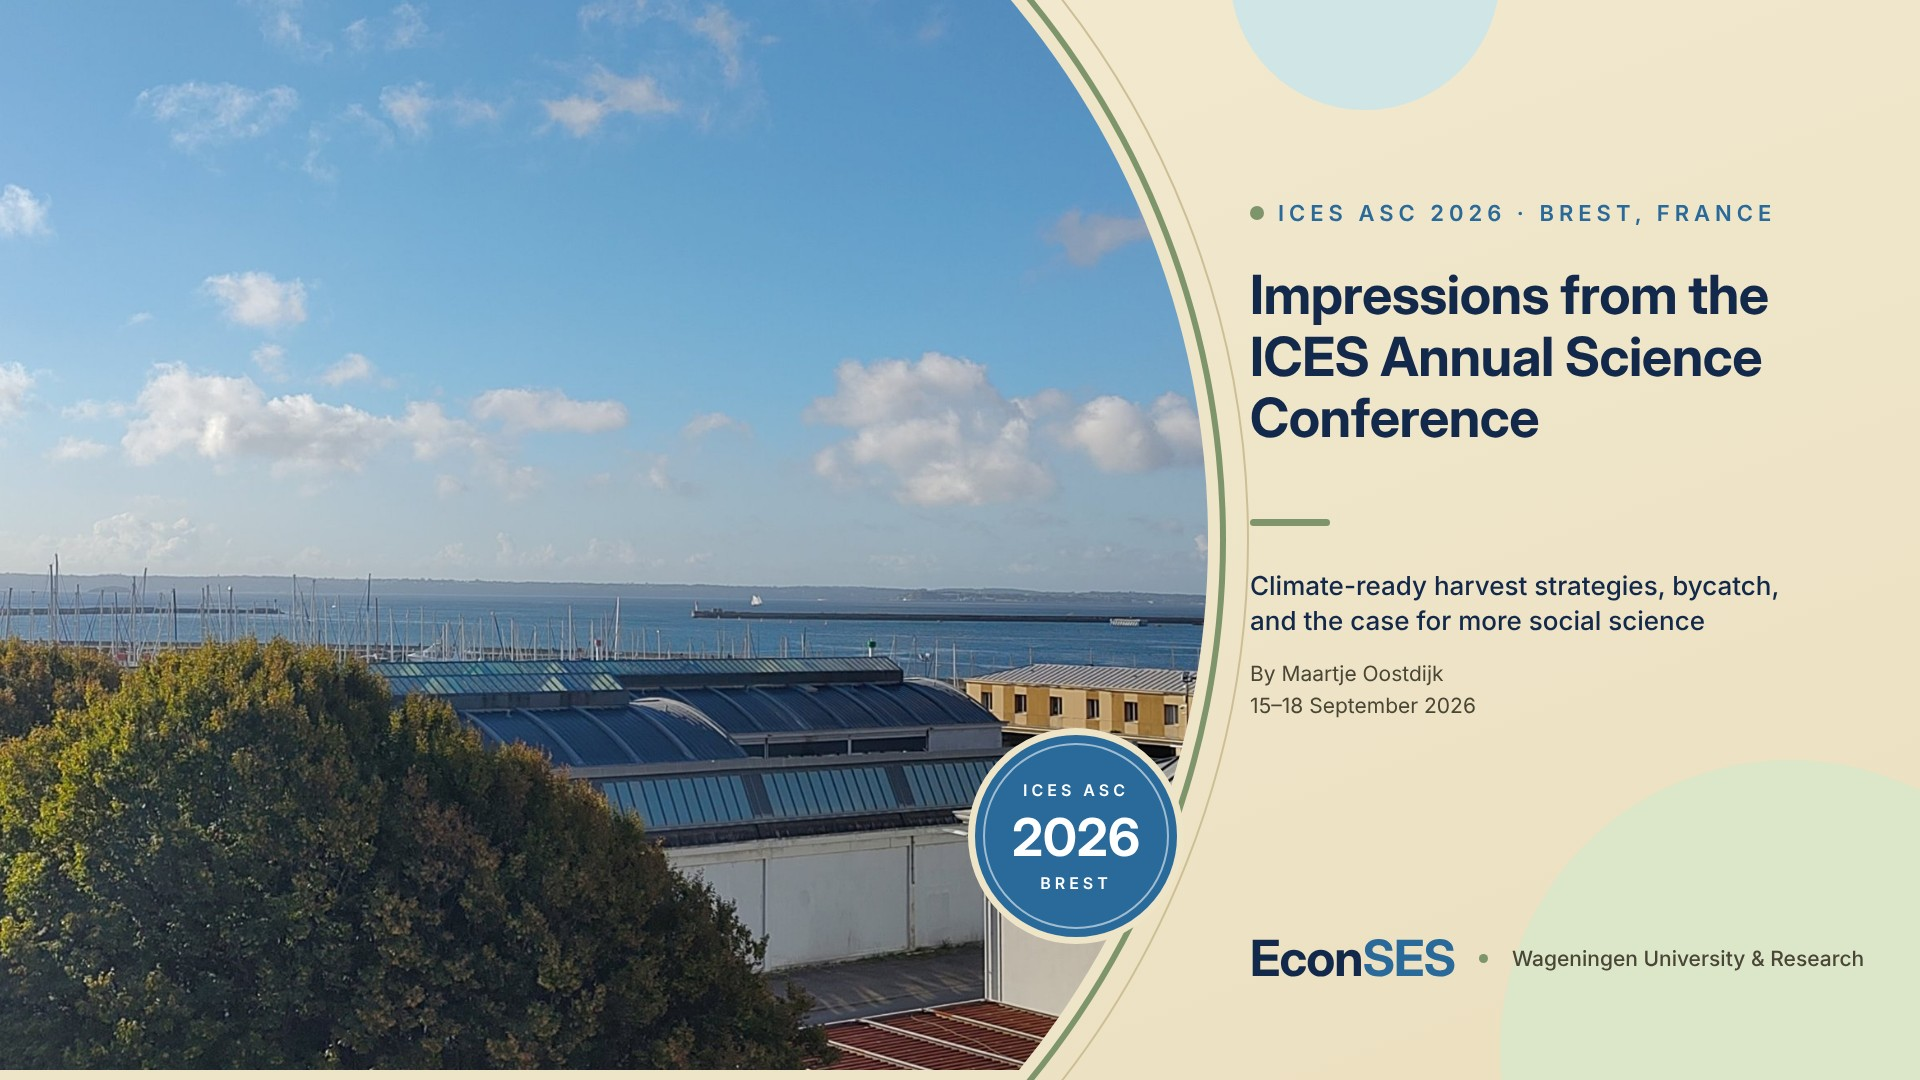
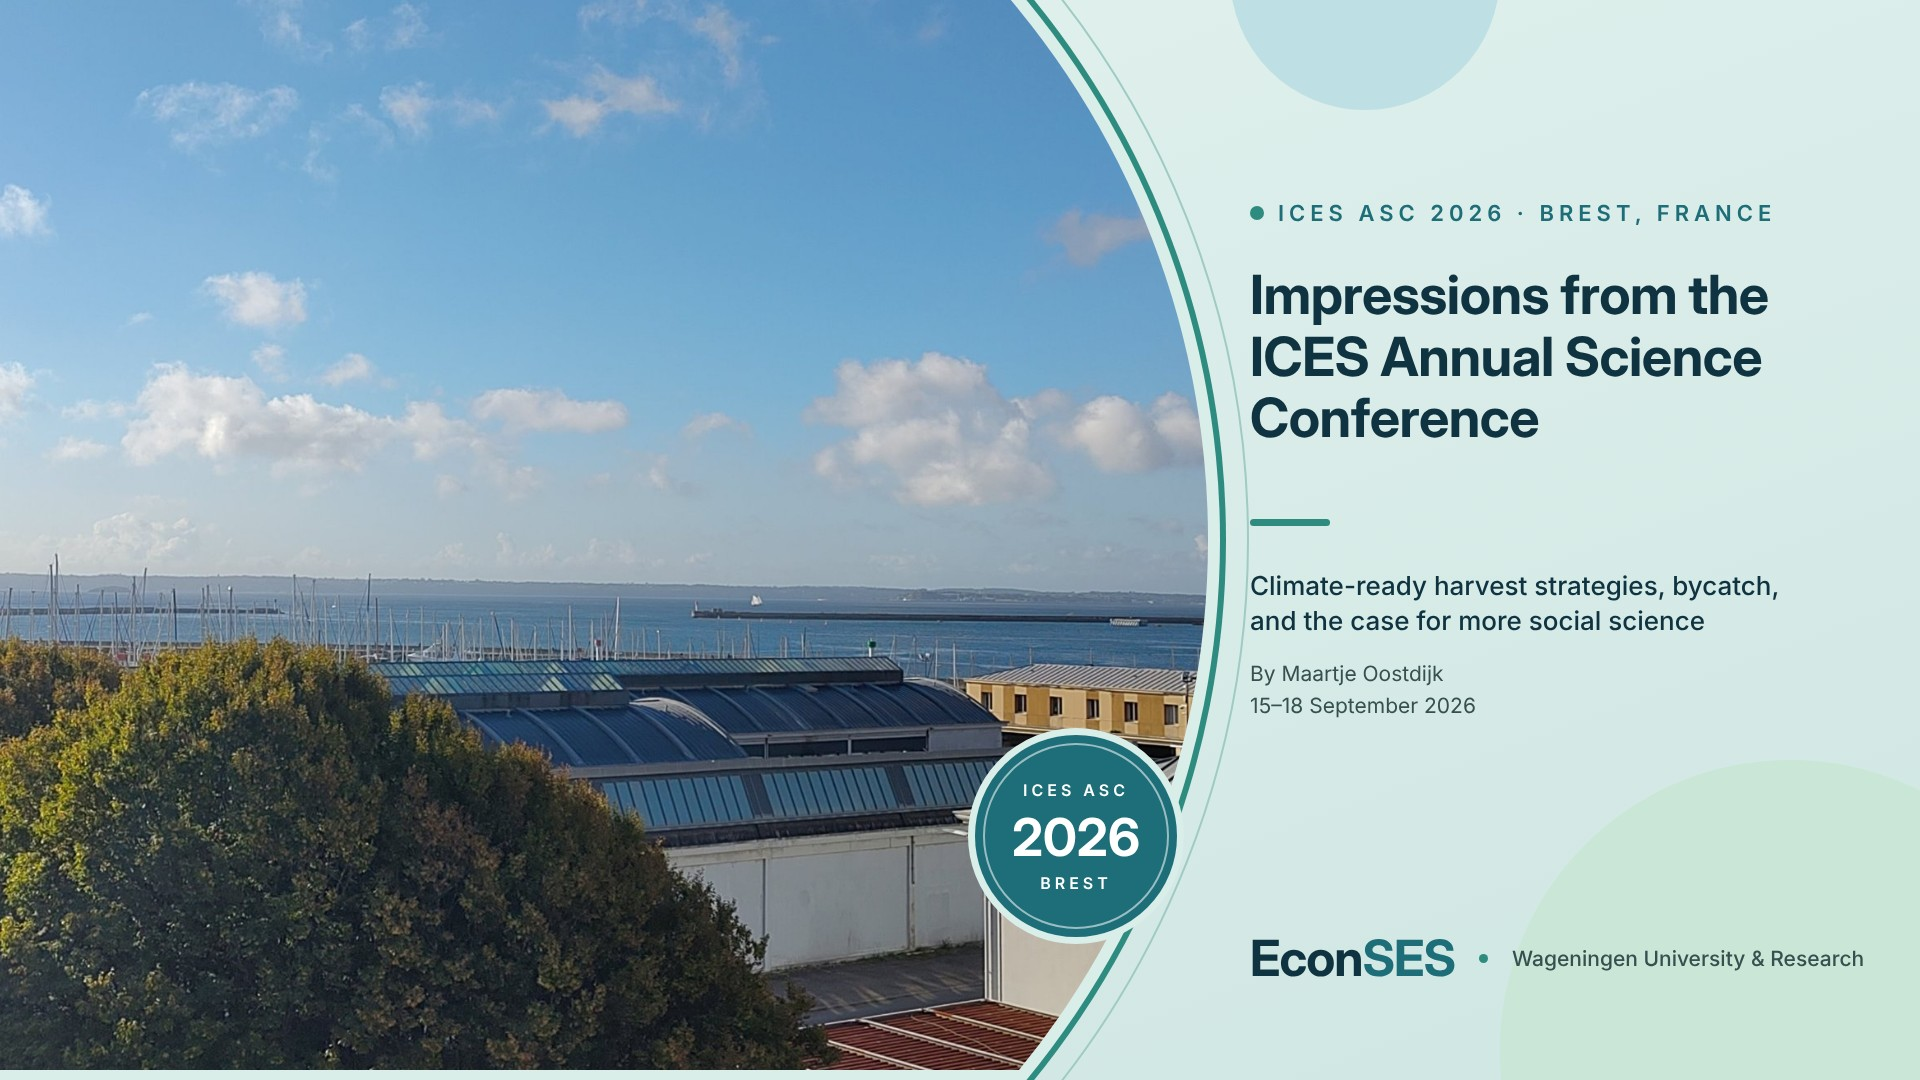
maartje

diff --git a/layouts/shortcodes/pullquote.html b/layouts/shortcodes/pullquote.html
@@ -1,0 +1,8 @@
+{{/* Pull quote for news posts.
+     Usage: {{< pullquote author="Maartje Oostdijk" >}}Quote text{{< /pullquote >}} */}}
+<figure class="econses-pullquote" style="margin: 2.5rem 0; padding: 0.4rem 0 0.4rem 1.6rem; border-left: 5px solid #2E8B7F;">
+  <blockquote style="margin: 0; border: 0; padding: 0; font-size: 1.45rem; line-height: 1.45; font-weight: 600; color: #1D6E78;">
+    “{{ .Inner | markdownify }}”
+  </blockquote>
+  {{ with .Get "author" }}<figcaption style="margin-top: 0.6rem; font-size: 0.95rem; letter-spacing: 0.08em; text-transform: uppercase; color: #5a6b6a;">— {{ . }}</figcaption>{{ end }}
+</figure>

diff --git a/content/post/20261103-ices-asc-2026-brest/index.md b/content/post/20261103-ices-asc-2026-brest/index.md
@@ -1,7 +1,7 @@
 ---
 title: 'Impressions from the ICES Annual Science Conference 2026 in Brest'
 subtitle: ''
-summary: 'Maartje Oostdijk reports from the ICES Annual Science Conference in Brest: climate-ready harvest strategies, bycatch, and a call for more social and economic research.'
+summary: 'EconSES postdoctoral researcher Dr. Maartje Oostdijk shares her impressions from the ICES Annual Science Conference in Brest: climate-ready harvest strategies, bycatch, and a call for more social and economic research.'
 authors:
   - Maartje Oostdijk
 tags:
@@ -19,19 +19,32 @@ image:
   preview_only: false
 ---
 
-The Annual Science Conference (ASC) of the International Council for the Exploration of the Sea (ICES) took place on 15–18 September in Brest, France. I joined as a member of the EconSES lab to present work on climate-ready fisheries harvest strategies and on the impacts of trade agreements on seafood trade and production.
+From 15 to 18 September 2026, marine researchers from across the North Atlantic gathered in Brest, France, for the Annual Science Conference (ASC) of the International Council for the Exploration of the Sea (ICES). EconSES postdoctoral researcher [Dr. Maartje Oostdijk](/author/maartje-oostdijk/) attended on behalf of the lab, presenting work on climate-ready fisheries harvest strategies and on how trade agreements affect seafood trade and production.
 
-ICES is an intergovernmental marine science organization that provides scientific evidence and advice to support the sustainable management of marine ecosystems and fisheries in the North Atlantic and adjacent seas. Stock assessment is a central part of the work of ICES, and the conference follows an often intense week of meetings for scientists working on stock assessments. The ASC, however, reaches beyond stock assessment and is an important gathering for researchers studying marine social-ecological systems.
+ICES is an intergovernmental marine science organization that provides scientific evidence and advice to support the sustainable management of marine ecosystems and fisheries in the North Atlantic and adjacent seas. Stock assessment is a central part of its work, and the conference follows an often intense week of meetings for scientists working on stock assessments. The ASC, however, reaches beyond stock assessment and is an important gathering for researchers studying marine social-ecological systems.
 
-The need for social and economic data and analysis was stressed prominently in the plenary sessions, although the theme sessions largely focused on ecological questions (apart from a theme session on participatory modeling). I was also surprised by how few sessions focused directly on stock assessment, given its central role within ICES.
+### A call for social and economic research
 
-The eight-minute presentation format offers a broad overview of ongoing research, though the pace can be overwhelming. With speakers fitting so much information into such short slots, there is little time to absorb one presentation before the next begins. Despite the short time slots, it was obvious that both the research and the presentations were of very high quality. Fortunately, generous lunch breaks provided time to catch up with colleagues and give the brain a little rest from the intense theme sessions.
+The need for social and economic data and analysis was stressed prominently in the plenary sessions. The theme sessions, however, largely focused on ecological questions, with a theme session on participatory modeling as the main exception. Maartje also noticed what was missing from the program.
+
+{{< pullquote author="Maartje Oostdijk" >}}I was surprised by how few sessions focused directly on stock assessment, given its central role within ICES.{{< /pullquote >}}
+
+### Eight minutes per talk
+
+The ASC uses an eight-minute presentation format, which offers a broad overview of ongoing research, though the pace can be overwhelming. "With speakers fitting so much information into such short slots, there is little time to absorb one presentation before the next begins," Maartje says. "Despite the short time slots, it was obvious that both the research and the presentations were of very high quality."
+
+Fortunately, generous lunch breaks provided time to catch up with colleagues and, in Maartje's words, to "give the brain a little rest from the intense theme sessions."
 
 ![Exciting social science research at the ICES ASC](ices-presentation.jpg)
 
+### Highlights: climate models and bycatch
 
-One of my highlights of the conference was the theme session "Climate models to advice", which hosted impressive ecosystem modeling research on incorporating climate change and uncertainty in stock assessments into (ecosystem-based) modeling and fisheries advice.
+{{< pullquote author="Maartje Oostdijk" >}}One of my highlights of the conference was the theme session ‘Climate models to advice’.{{< /pullquote >}}
 
-The sessions on bycatch reduction were also interesting. They gave insights into technical innovations and management approaches, but also into the clash between ideals of ecosystem protection and utilization. For instance, it proves challenging to decide together with fishers which areas are best closed to reduce bycatch, as closing these areas can also carry high opportunity costs for fishery participants.
+The session hosted impressive ecosystem modeling research on incorporating climate change and uncertainty in stock assessments into (ecosystem-based) modeling and fisheries advice.
 
-I'm looking forward to next year's meeting in Copenhagen!
+Maartje also found the sessions on bycatch reduction interesting. They gave insights into technical innovations and management approaches, but also into the clash between ideals of ecosystem protection and utilization. "For instance, it proves challenging to decide together with fishers which areas are best closed to reduce bycatch," she explains, "as closing these areas can also carry high opportunity costs for fishery participants."
+
+### Next stop: Copenhagen
+
+Next year's ASC will take place in Copenhagen, and Maartje is already looking ahead: "I'm looking forward to next year's meeting in Copenhagen!"

diff --git a/content/post/20261103-ices-asc-2026-brest/index_old.md b/content/post/20261103-ices-asc-2026-brest/index_old.md
@@ -1,0 +1,37 @@
+---
+title: 'Impressions from the ICES Annual Science Conference 2026 in Brest'
+subtitle: ''
+summary: 'Maartje Oostdijk reports from the ICES Annual Science Conference in Brest: climate-ready harvest strategies, bycatch, and a call for more social and economic research.'
+authors:
+  - Maartje Oostdijk
+tags:
+  - Marine Systems
+  - Fisheries
+  - Conference
+#categories:
+#  - News
+date: '2026-11-03T00:00:00Z'
+featured: false
+draft: false
+image:
+  caption: 'View over the harbor of Brest during the ICES Annual Science Conference 2026.'
+  focal_point: Smart
+  preview_only: false
+---
+
+The Annual Science Conference (ASC) of the International Council for the Exploration of the Sea (ICES) took place on 15–18 September in Brest, France. I joined as a member of the EconSES lab to present work on climate-ready fisheries harvest strategies and on the impacts of trade agreements on seafood trade and production.
+
+ICES is an intergovernmental marine science organization that provides scientific evidence and advice to support the sustainable management of marine ecosystems and fisheries in the North Atlantic and adjacent seas. Stock assessment is a central part of the work of ICES, and the conference follows an often intense week of meetings for scientists working on stock assessments. The ASC, however, reaches beyond stock assessment and is an important gathering for researchers studying marine social-ecological systems.
+
+The need for social and economic data and analysis was stressed prominently in the plenary sessions, although the theme sessions largely focused on ecological questions (apart from a theme session on participatory modeling). I was also surprised by how few sessions focused directly on stock assessment, given its central role within ICES.
+
+The eight-minute presentation format offers a broad overview of ongoing research, though the pace can be overwhelming. With speakers fitting so much information into such short slots, there is little time to absorb one presentation before the next begins. Despite the short time slots, it was obvious that both the research and the presentations were of very high quality. Fortunately, generous lunch breaks provided time to catch up with colleagues and give the brain a little rest from the intense theme sessions.
+
+![Exciting social science research at the ICES ASC](ices-presentation.jpg)
+
+
+One of my highlights of the conference was the theme session "Climate models to advice", which hosted impressive ecosystem modeling research on incorporating climate change and uncertainty in stock assessments into (ecosystem-based) modeling and fisheries advice.
+
+The sessions on bycatch reduction were also interesting. They gave insights into technical innovations and management approaches, but also into the clash between ideals of ecosystem protection and utilization. For instance, it proves challenging to decide together with fishers which areas are best closed to reduce bycatch, as closing these areas can also carry high opportunity costs for fishery participants.
+
+I'm looking forward to next year's meeting in Copenhagen!

diff --git a/content/post/20261005-NSD/index.md b/content/post/20261005-NSD/index.md
@@ -1,6 +1,6 @@
 ---
 title: 'Navigating offshore energy, nature, and fisheries: trade-offs and transition scenarios'
-summary: 'At the North Sea Days, a session convened by Andries Richter, Else Weerman, and partners set out to make the trade-offs between offshore wind, nature, and fisheries explicit.'
+summary: 'At the North Sea Days, a session convened by Dr. Andries Richter, Else Weerman, and partners set out to make the trade-offs between offshore wind, nature, and fisheries explicit.'
 profile: 
   - andries-richter
   - else-weerman
@@ -15,7 +15,7 @@ image:
   focal_point: 'Center'
 ---
 
-As the North Sea gets more crowded, decisions about offshore wind, nature restoration, and fisheries are becoming more contested, often under deep uncertainty about climate change and a shifting geopolitical landscape. Too often the trade-offs stay implicit, which makes it hard to see who benefits, who bears the costs, and where thresholds may be crossed. At the North Sea Days, we convened a session to make these trade-offs explicit, together with partners from Wageningen Social and Economic Research, DMEC, Central Bureau of Statistics, Stichting De Noordzee, NIOZ, and Breda University of Applied Sciences, and drawing on the NO-REGRETS and DISPLACE projects.
+As the North Sea gets more crowded, decisions about offshore wind, nature restoration, and fisheries are becoming more contested, often under deep uncertainty about climate change and a shifting geopolitical landscape. Too often the trade-offs stay implicit, which makes it hard to see who benefits, who bears the costs, and where thresholds may be crossed. At the North Sea Days, EconSES convened a session to make these trade-offs explicit, together with partners from Wageningen Social and Economic Research, DMEC, Central Bureau of Statistics, Stichting De Noordzee, NIOZ, and Breda University of Applied Sciences, and drawing on the NO-REGRETS and DISPLACE projects.
 
 ![Wind turbines at Neeltje Jans against a cloudy sky.](turbines.jpg "Neeltje Jans was a perfect venue to host a session on offshore wind.")
 
